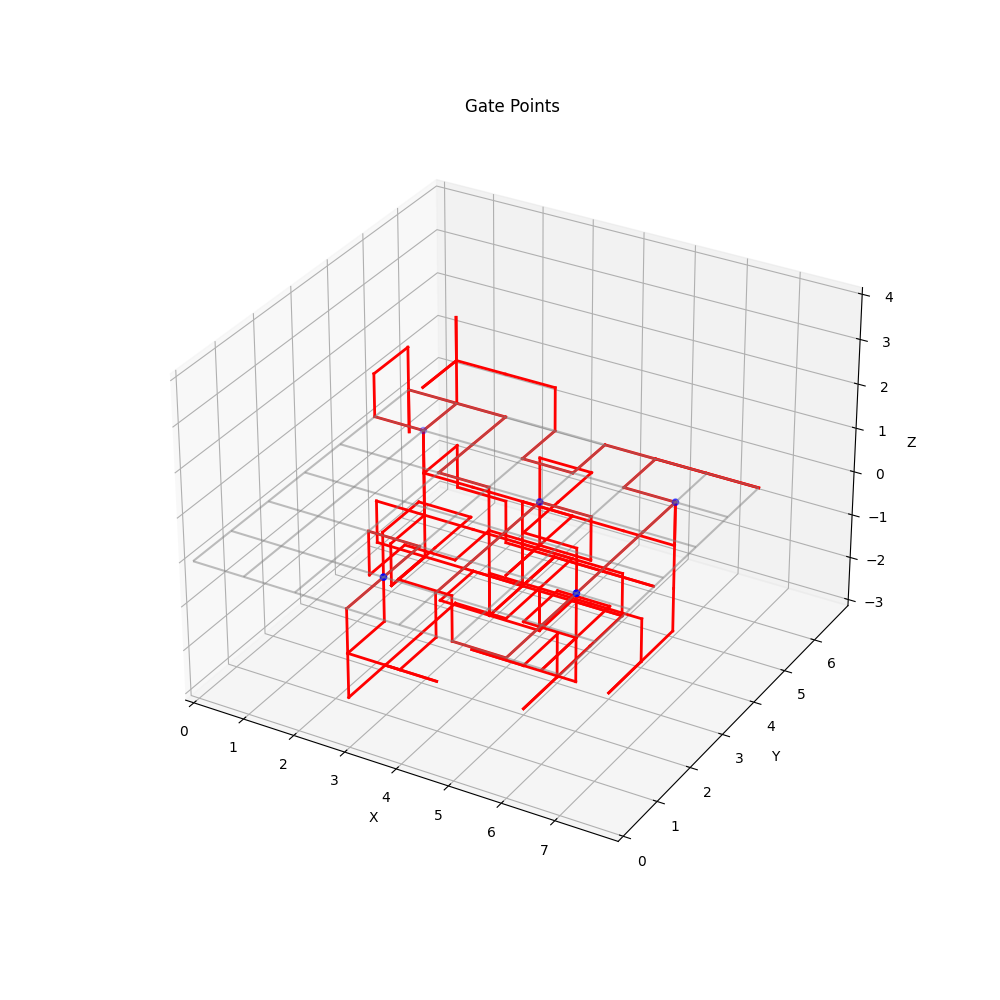
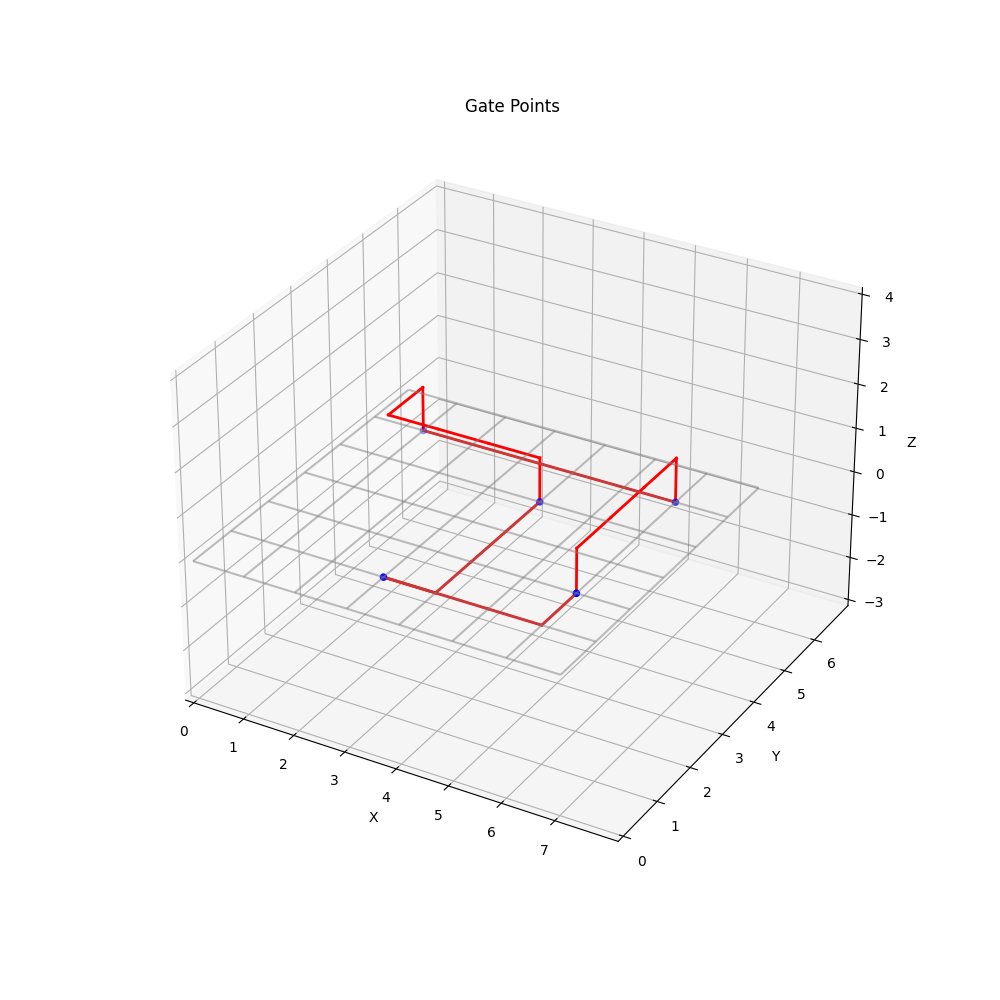
nog steeds beetje buggy hillclimber, sry voor de veele hillclimber

Changed region(s): [[0.341, 0.31, 0.744, 0.713]]

diff --git a/Code/algorithms/hillclimber_unit.py b/Code/algorithms/hillclimber_unit.py
@@ -4,6 +4,7 @@
 import random
 import sys
 from randomize import check_if_valid
+from greedy import calculate_distance, check_sign
 sys.path.append("../Classes")
 from gate import *
 from location import *
@@ -12,75 +13,69 @@ from grid import *
 from chip import *
 
 
-class HillClimber:
 
-    def __init__(self, wire):
-        self.possibilities = [[0, 0, 1], [0, 1, 0], [1, 0, 0], [-1, 0, 0], [0, -1, 0], [0, 0, -1]]
-        self.wire = wire
-
-    def get_wire(self):
-        pass
-    
-    def get_random_direction(self):
-        if self.possibilities:
-            direction = random.choice(self.possibilities)
-            index = self.possibilities.index(direction)
-            direction = Location(direction[0], direction[1], direction[2])
-            self.possibilities.pop(index)
-            return direction
-
-    
 def hillclimber_unit(chip):
-    # for every connection
+    # get wire a and b with locations
     for connection in chip.wire_connections:
-        
+        print("new wire")
         gate_a = connection[0]
         gate_b = connection[1]
 
         wire = chip.wires[f"{gate_a}-{gate_b}"]
-        hillclimbing = HillClimber(wire)
-        print("WIREEEEEEEEEEEE################################", gate_a, gate_b)
-        
-        if not wire.wireparts:
-            connected = False
-        else:
-            connected = wire.check_is_connected()
+        while True:
+            # calculate difference x y and z
+            location_a = wire.get_wire_part_start()
+            location_b = wire.gateB.location
+            distance = calculate_distance(location_a, location_b) 
+            print(distance)
 
-        # repeat putting down small wireparts
-        while not connected:
-            print("repaeating from start")
-            # get starting location
-            start_location = wire.get_wire_part_start()
+            # lay down wire in x direction
+            if distance.x != 0:
+                x_direction = Location(check_sign(distance.x), 0, 0)
+                wire.add_wire_part(x_direction)
 
-            # get random direction
-            direction = hillclimbing.get_random_direction()
-            print("got a random direction", direction)
-
-            # put them together
-            print("start location",start_location)
-
-            # if valid, add wire
-            if check_if_valid(wire, chip.grid, direction, chip.gates):
-                print("valid")
-                print("add wire")
+                # if y direction better, do that
+                if distance.y != 0:
+                    y_direction = Location(0, check_sign(distance.y), 0)
+                    if chip.calculate_cost_wirepart(location_a, x_direction) >  chip.calculate_cost_wirepart(location_a, y_direction):
+                        wire.remove_wire_part()
+                        wire.add_wire_part(y_direction) 
+                    if distance.z != 0:
+                        z_direction = Location(0, 0, check_sign(distance.z))
+                    else: 
+                        z_direction = Location(0,0,1)
+                        if chip.calculate_cost_wirepart(location_a, y_direction) > chip.calculate_cost_wirepart(location_a, z_direction) and chip.calculate_cost_wirepart(location_a, x_direction) >chip.calculate_cost_wirepart(location_a, z_direction):
+                            wire.remove_wire_part()
+                            wire.add_wire_part(z_direction) 
+                
+                
+            elif distance.y != 0:
+                # get direction as e.g.(0,1,0)
+                y_direction = Location(0, check_sign(distance.y), 0)
+                wire.add_wire_part(y_direction)
+                # if z direction better, do that
+                if distance.z != 0:
+                    z_direction = Location(0, 0, check_sign(distance.z))
+                else: 
+                    z_direction = Location(0,0,1)
+                    if chip.calculate_cost_wirepart(location_a, y_direction) >  chip.calculate_cost_wirepart(location_a, z_direction):
+                        wire.remove_wire_part()
+                        wire.add_wire_part(z_direction) 
+            
+            # if not yet on same z, go one step further
+            elif distance.z != 0:
+                # get direction as e.g.(0,0,1)
+                direction = Location(0, 0, check_sign(distance.z))
                 wire.add_wire_part(direction)
 
-            for possibility in hillclimbing.possibilities:
-                print(hillclimbing.possibilities)
-                print("in for loop")
-                # get random direction
-                new_direction = hillclimbing. get_random_direction()
+            if wire.check_is_connected():
+                break
 
-                # if valid, check if expensive
-                if check_if_valid(wire, chip.grid, direction, chip.gates):
-                    old_cost = chip.calculate_cost_wirepart(start_location, direction)
-                    new_cost = chip.calculate_cost_wirepart(start_location, new_direction)
-                    
-                    # if better, remove old and add new
-                    if old_cost > new_cost:
-                        print("better")
-                        print(new_direction)
-                        wire.remove_wire_part()
-                        wire.add_wire_part(new_direction)
-                    else: 
-                        print("worse")
+
+    # if cost is lower in y direction lay down wire in y direction
+
+    # if cost is lower in z direction, lay wire in z direction (if no z then z = 1)
+    # repeat for every wirepart
+    # stop if connected
+    
+    

diff --git a/Code/algorithms/hillclimber_unit copy.py b/Code/algorithms/hillclimber_unit copy.py
@@ -1,0 +1,132 @@
+###################################################
+# Hill Climber's algorithm
+###################################################
+import random
+import sys
+from randomize import check_if_valid
+from greedy import calculate_distance, check_sign
+sys.path.append("../Classes")
+from gate import *
+from location import *
+from wire import *
+from grid import *
+from chip import *
+
+
+
+# class HillClimber:
+
+    # def __init__(self):
+    #     self.possibilities = [[0, 0, 1], [0, 1, 0], [1, 0, 0], [-1, 0, 0], [0, -1, 0], [0, 0, -1]]
+
+    # def get_random_direction(self):
+    #     if self.possibilities:
+    #         direction = random.choice(self.possibilities)
+    #         index = self.possibilities.index(direction)
+    #         direction = Location(direction[0], direction[1], direction[2])
+    #         self.possibilities.pop(index)
+    #         return direction
+    
+    # def reset(self):
+    #     self.possibilities = [[0, 0, 1], [0, 1, 0], [1, 0, 0], [-1, 0, 0], [0, -1, 0], [0, 0, -1]]
+
+def hillclimber_unit(chip):
+    print("hello there")
+    # for every connection
+    for connection in chip.wire_connections:
+        
+        gate_a = connection[0]
+        gate_b = connection[1]
+
+        wire = chip.wires[f"{gate_a}-{gate_b}"]
+        hillclimbing = HillClimber()
+        print("New Wire", gate_a, gate_b)
+
+        # repeat putting down small wireparts
+        while True:
+            # get location of the current location and the end location
+            location_a = wire.get_wire_part_start()
+            location_b = wire.gateB.location
+
+            # Remember all the differences
+            # calculate distance between the locations
+            distance = calculate_distance(location_a, location_b) 
+
+            # if not yet on same x, go one step closer on the x axis.
+            if distance.x != 0:
+                # get direction as e.g.(1,0,0)
+                x_direction = Location(check_sign(distance.x), 0, 0)
+                x_cost = chip.calculate_cost_wirepart(location_a, x_direction)
+            # if not yet on same y, go one step closer on the y axis.
+            if distance.y != 0:
+
+                # get direction as e.g.(0,1,0)
+                y_direction = Location(0, check_sign(distance.y), 0)
+                y_cost = chip.calculate_cost_wirepart(location_a, y_direction)
+            
+            # if not yet on same z, go one step further
+            if distance.z != 0:
+                # get direction as e.g.(0,0,1)
+                z_direction = Location(0, 0, check_sign(distance.z))
+                z_cost = chip.calculate_cost_wirepart(location_a, z_direction)
+            
+            if y_cost > z_cost and x_cost > z_cost:
+                wire.add_wire_part(z_direction)
+            if x_cost >= y_cost:
+                wire.add_wire_part(y_direction)
+            else:
+                wire.add_wire_part(x_direction)
+
+
+
+
+
+
+
+
+
+
+
+            # hillclimbing.reset()
+            # # print("new wirepart")
+            # # get starting location
+            # start_location = wire.get_wire_part_start()
+
+            # # get random direction
+            # direction = hillclimbing.get_random_direction()
+            # # print("got a random direction", direction)
+            # # print("start location",start_location)
+
+            # # if valid, add wire
+            # if check_if_valid(wire, chip.grid, direction, chip.gates):
+            #     # print("valid")
+            #     print("add wire")
+            #     old_cost = chip.calculate_cost_wirepart(start_location, direction)
+            #     wire.add_wire_part(direction)
+                
+            # if wire.check_is_connected():
+            #     print("connected")
+            #     break
+
+            # # check all possibilities if they are better
+            # for possibility in range(5):
+            #     # print(hillclimbing.possibilities)
+            #     # print("in for loop")
+            #     # get random direction
+            #     new_direction = hillclimbing. get_random_direction()
+
+            #     # if valid, check if expensive
+            #     if check_if_valid(wire, chip.grid, direction, chip.gates):
+            #         new_cost = chip.calculate_cost_wirepart(start_location, new_direction)
+                    
+            #         # if better, remove old and add new
+            #         if old_cost > new_cost:
+            #             print("better", old_cost, new_cost)
+            #             # print(new_direction)
+            #             wire.remove_wire_part()
+            #             wire.add_wire_part(new_direction)
+            #             old_cost = new_cost
+            #         else: 
+            #             print("worse")
+            
+           

diff --git a/Code/main.py b/Code/main.py
@@ -12,9 +12,9 @@ from plot import *
 sys.path.append("algorithms")
 from greedy import *
 from randomize import *
-from hillclimber_per_unit import *
+# from hillclimber_per_unit import *
 from hillclimber import *
-from hillclimber_unit import *
+from hillclimber_unit import hillclimber_unit
 from astar import *
 from order_sorting import *
 
@@ -102,6 +102,8 @@ def main():
     if len(argv) == 2:
         if argv[1] == "test":
             testing()
+        else:
+             print("Usage: python main.py [number_chip] [number_netlist] [algorithm] [sorting_order]")
 
     else:
         # get all the necessary information.

diff --git a/Code/Classes/chip.py b/Code/Classes/chip.py
@@ -144,8 +144,11 @@ class Chip():
         k = 0
         new_location = location + direction
         
+        # for every wire
         for connection in self.wires:
+            # for every wireunit
             for wire_unit in self.wires[connection].wireparts:
+                
                 if wire_unit.to_location == location:
                     k += 1
                 if wire_unit.to_location == new_location:

diff --git a/Code/algorithms/greedy.py b/Code/algorithms/greedy.py
@@ -76,8 +76,10 @@ def check_sign(number):
     """
     if number > 0:
         return 1
-    else:
+    elif number < 0:
         return -1 
+    else:
+        return 0
 
 def calculate_distance(location_a, location_b):
     """
